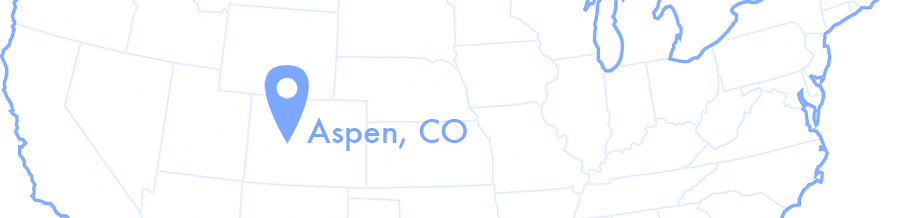
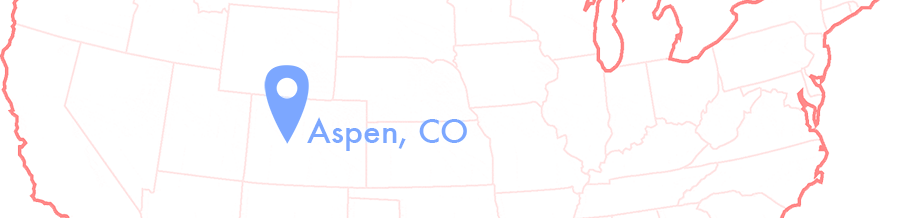
add some selected images, merged form2.css

diff --git a/form2.css b/form2.css
@@ -1,8 +1,54 @@
+img.map {
+    width: 100%;
+}
+
+div.map {
+    width: 50%;
+    display: inline-block;
+}
+
+div.form {
+    display: inline-block;
+}
+
+form {
+    text-align: left;
+    padding: 1em;
+}
+
+label {
+    display: block;
+    margin: 0.5em;
+    font-weight: bold;
+}
+
+fieldset {
+    background-color: #F9D423;
+    color: #cc3f42;
+    border: 0.5em solid #FF4E50;
+    margin: 0.5em;
+}
+
+button {
+    font-weight: bold;
+    font-size: 1em;
+    padding: 1em;
+    background-color: #FF4E50;
+    border: 0px;
+    color: #F9D423;
+    text-decoration: none;
+    margin: 0.5em;
+    -webkit-transition: all 0.2s ease;
+    -moz-transition: all 0.2s ease;
+    -ms-transition: all 0.2s ease;
+    -o-transition: all 0.2s ease;
+    transition: all 0.2s ease;
+}
+
 h1 {
     font: 24px "Trebuchet MS", Arial, Helvetica, sans-serif;
     padding: 20px 0px 20px 40px;
     display: block;
-    margin: -30px -30px 10px -30px;
     color: #FFF;
     background: #9DC45F;
     text-shadow: 1px 1px 1px #949494;
@@ -27,4 +73,5 @@ textarea{
 }
 button:hover {
     background-color:#80A24A;
+    color: #FF4E50;
 }

diff --git a/contact.php b/contact.php
@@ -6,7 +6,7 @@
 	<title>Book Your Trip</title>
 	<link rel="stylesheet" type="text/css" href="default.css">
 	<link rel="stylesheet" type="text/css" href="styles.css">
-	<link rel="stylesheet" type="text/css" href="form.css">
+	<!-- <link rel="stylesheet" type="text/css" href="form.css"> -->
 	<link rel="stylesheet" type="text/css" href="form2.css">
 </head>
 <body>
@@ -21,6 +21,9 @@
 		            break;
 		        }
 		    }
+
+		    var newImage = "img/map-" + destination.toLowerCase() + "-selected.png";
+		    document.getElementById(destination + "-map").src = newImage;
 	    }
 	</script>
 
@@ -29,9 +32,9 @@
 	<h1>Choose Your Destination!</h1>
 
 	<div class="map">
-		<img onClick="selectDest('Seattle')" class="map" id="seattle" src = "img/map-seattle.png" />
-		<img onClick="selectDest('Aspen')"class="map" id="aspen" src = "img/map-aspen.png" />
-		<img onClick="selectDest('PCB')"class="map" id="pcb" src = "img/map-pcb.png" />
+		<img onClick="selectDest('Seattle')" class="map" id="Seattle-map" src = "img/map-seattle.png" />
+		<img onClick="selectDest('Aspen')"class="map" id="Aspen-map" src = "img/map-aspen.png" />
+		<img onClick="selectDest('PCB')"class="map" id="PCB-map" src = "img/map-pcb.png" />
 	</div>
 
 	<div class="form">
